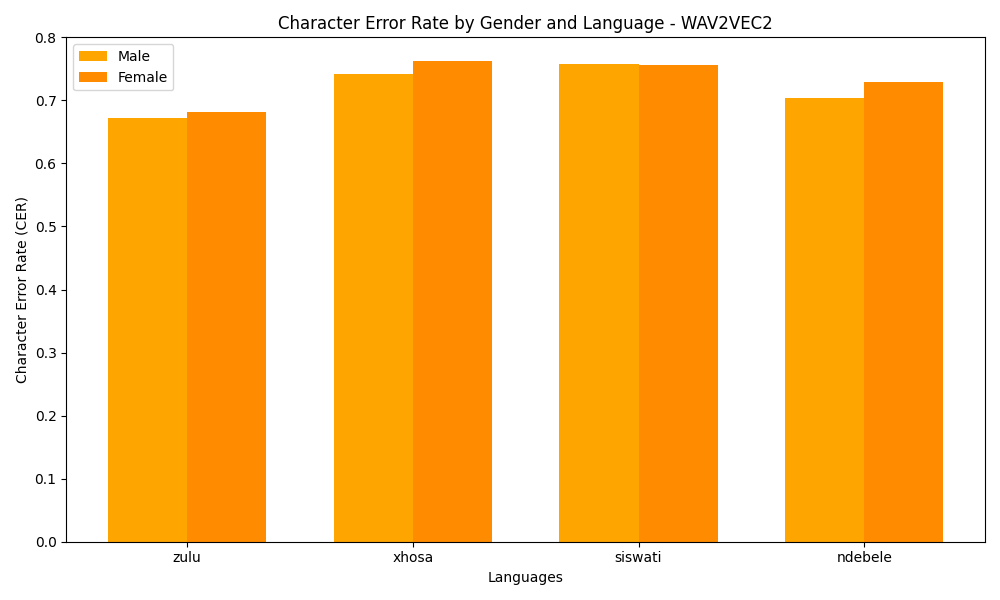
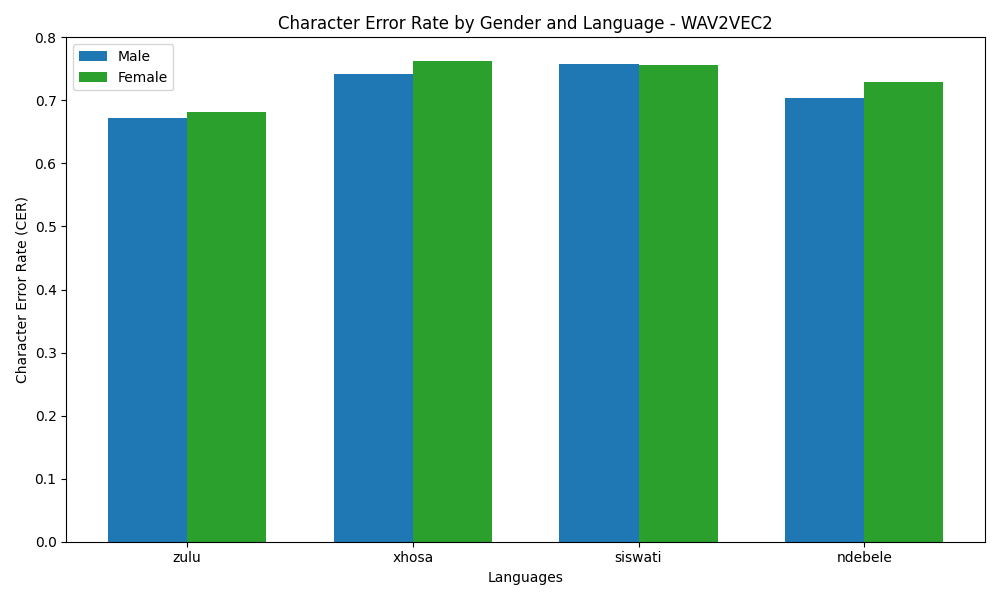
edited colours for male and female

diff --git a/wav2vec2/error_analysis/gender_wer.py b/wav2vec2/error_analysis/gender_wer.py
@@ -37,11 +37,11 @@ male_wer = [wer_results[lang]["male"] for lang in langs]
 female_wer = [wer_results[lang]["female"] for lang in langs]
 
 # Define colours
-orange_light = "#FFA500"
-orange_dark = "#FF8C00"
+blue = "#1f77b4"
+green = "#2ca02c"
 plt.figure(figsize=(10, 6))
-plt.bar(index, male_wer, bar_width, label="Male", color=orange_light)
-plt.bar([i + bar_width for i in index], female_wer, bar_width, label="Female", color=orange_dark)
+plt.bar(index, male_wer, bar_width, label="Male", color=blue)
+plt.bar([i + bar_width for i in index], female_wer, bar_width, label="Female", color=green)
 plt.xlabel("Languages")
 plt.ylabel("Word Error Rate (WER)")
 plt.title("Word Error Rate by Gender and Language - WAV2VEC2")
@@ -57,8 +57,8 @@ male_cer = [cer_results[lang]["male"] for lang in langs]
 female_cer = [cer_results[lang]["female"] for lang in langs]
 
 plt.figure(figsize=(10, 6))
-plt.bar(index, male_cer, bar_width, label="Male", color=orange_light)
-plt.bar([i + bar_width for i in index], female_cer, bar_width, label="Female", color=orange_dark)
+plt.bar(index, male_cer, bar_width, label="Male", color=blue)
+plt.bar([i + bar_width for i in index], female_cer, bar_width, label="Female", color=green)
 plt.xlabel("Languages")
 plt.ylabel("Character Error Rate (CER)")
 plt.title("Character Error Rate by Gender and Language - WAV2VEC2")

diff --git a/whisper/error_analysis/gender_wer.py b/whisper/error_analysis/gender_wer.py
@@ -37,11 +37,11 @@ male_wer = [wer_results[lang]["male"] for lang in langs]
 female_wer = [wer_results[lang]["female"] for lang in langs]
 
 # Define colours
-orange_light = "#FFA500"
-orange_dark = "#FF8C00"
+blue = "#1f77b4"
+green = "#2ca02c"
 plt.figure(figsize=(10, 6))
-plt.bar(index, male_wer, bar_width, label="Male", color=orange_light)
-plt.bar([i + bar_width for i in index], female_wer, bar_width, label="Female", color=orange_dark)
+plt.bar(index, male_wer, bar_width, label="Male", color=blue)
+plt.bar([i + bar_width for i in index], female_wer, bar_width, label="Female", color=green)
 plt.xlabel("Languages")
 plt.ylabel("Word Error Rate (WER)")
 plt.title("Word Error Rate by Gender and Language - Whisper")
@@ -57,8 +57,8 @@ male_cer = [cer_results[lang]["male"] for lang in langs]
 female_cer = [cer_results[lang]["female"] for lang in langs]
 
 plt.figure(figsize=(10, 6))
-plt.bar(index, male_cer, bar_width, label="Male", color=orange_light)
-plt.bar([i + bar_width for i in index], female_cer, bar_width, label="Female", color=orange_dark)
+plt.bar(index, male_cer, bar_width, label="Male", color=blue)
+plt.bar([i + bar_width for i in index], female_cer, bar_width, label="Female", color=green)
 plt.xlabel("Languages")
 plt.ylabel("Character Error Rate (CER)")
 plt.title("Character Error Rate by Gender and Language - Whisper")
